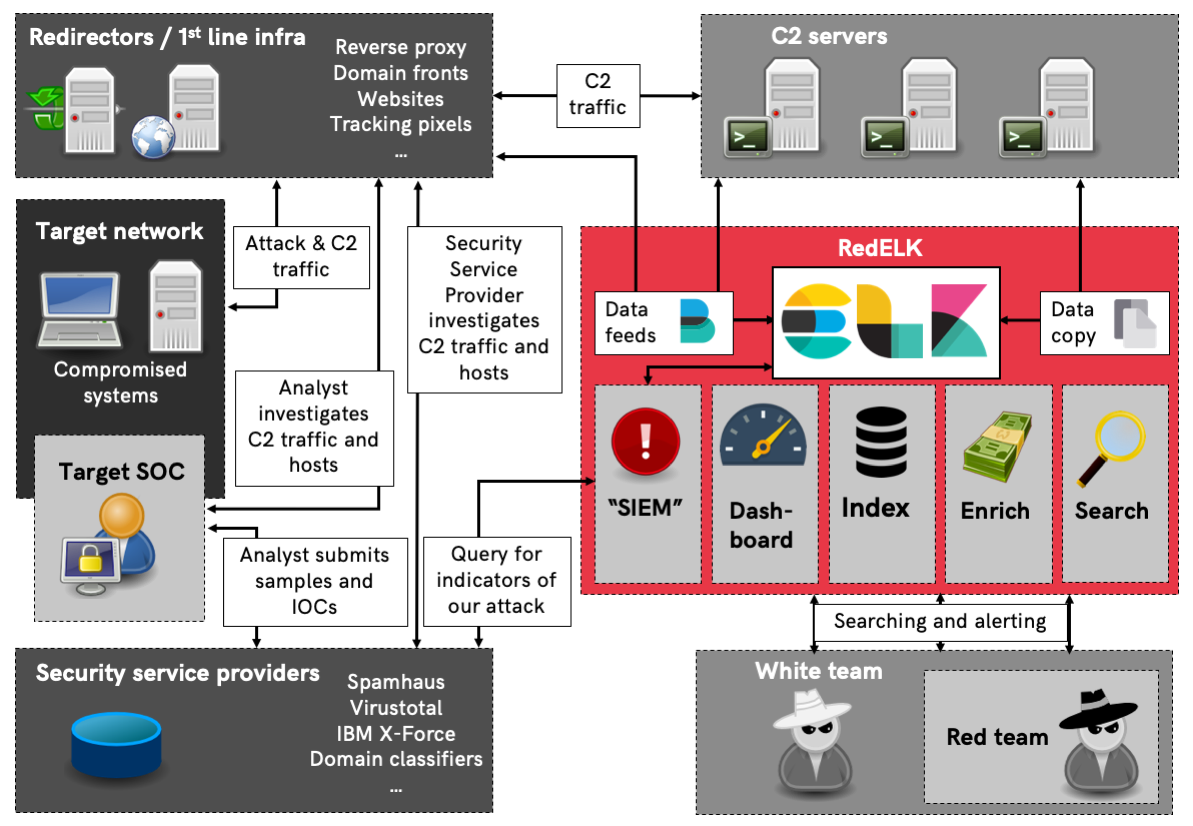
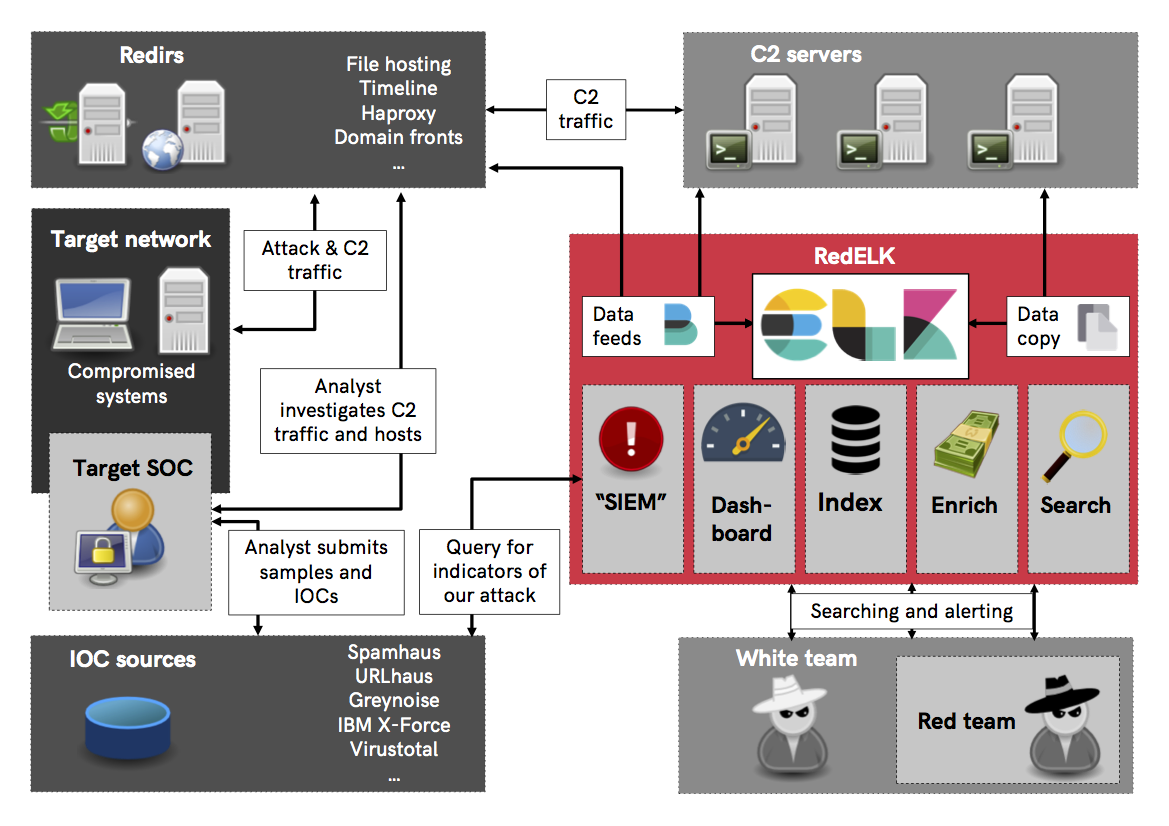
Update on readme and better overview graph

diff --git a/README.md b/README.md
@@ -1,9 +1,9 @@
 Red Team's SIEM - tool for Red Teams used for tracking and alarming about Blue Team activities as well as better usability for the Red Team in long term operations.
 
-As presented and demonstrated at BruCON 2018, x33fcon 2019 and Hack in Paris 2019:
+As presented and demonstrated at BruCON, x33fcon and Hack in Paris:
 - Video BruCon 2018: https://www.youtube.com/watch?v=OjtftdPts4g
 - Slides BruCon 2018: https://github.com/outflanknl/Presentations/raw/master/MirrorOnTheWall_BruCon2018_UsingBlueTeamTechniquesinRedTeamOps_Bergman-Smeets_FINAL.pdf
-- Video x33fcon 2019: tbc
+- Video x33fcon 2019: https://www.youtube.com/watch?v=-CNMgh0yJag 
 - Slides x33fcon 2019: https://github.com/outflanknl/Presentations/raw/master/x33fcon2019_OutOfTheBlue-CatchingBlueTeamOPSECFailures_publicversion.pdf
 - Video Hack in Paris 2019: https://www.youtube.com/watch?v=ZezBCAUax6c
 - Slides Hack in Paris 2019: https://github.com/outflanknl/Presentations/raw/master/HackInParis2019_WhoWatchesTheWatchmen_Bergman-Smeetsfinal.pdf
@@ -34,8 +34,8 @@ We welcome contributions! Contributions can be both in code, as well as in ideas
 This project is still in beta phase. This means that it works on our machines and our environment, but no extended testing is performed on different setups. This also means that naming and structure of the code is still subject to change.
 
 We are working (and you are invited to contribute) on many things, amongst others:
-- **Support for Apache and Nginx redirectors**. Fully tested and working filebeat and logstash configuration files that support Apache and Nginx based redirectors.
-- **Solve rsyslog max log line issue**. Rsyslog (default syslog service on Ubuntu) breaks long syslog lines. Depending on the CS profile you use, this can become an issue. As a result, the parsing of some of the fields are properly parsed by logstash, and thus not properly included in elasticsearch.
+- **Support for other redirector applications**. E.g. Nginx. Fully tested and working filebeat and logstash configuration.
+- **Support for other C2 frameworks**. E.g. FactionC2, Covenant, Empire. Fully tested and working filebeat and logstash configurations please.
 - **Ingest manual IOC data**. When you are uploading a document, or something else, outside of Cobalt Strike, it will not be included in the IOC list. We want an easy way to have these manual IOCs also included. One way would be to enter the data manually in the activity log of Cobalt Strike and have a logstash filter to scrape the info from there.
 - **Ingest e-mails**. Create input and filter rules for IMAP mailboxes. This way, we can use the same easy ELK interface for having an overview of sent emails, and replies.
 - **DNS traffic analyses**. Ingest, filter and query for suspicious activities on the DNS level. This will take considerable work due to the large amount of noise/bogus DNS queries performed  by scanners and online DNS inventory services. 
